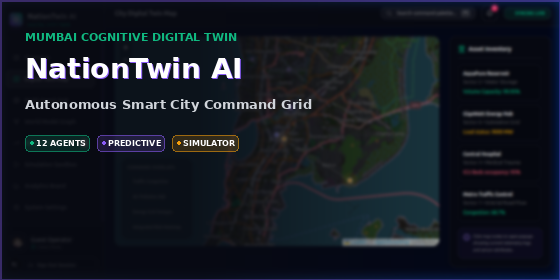
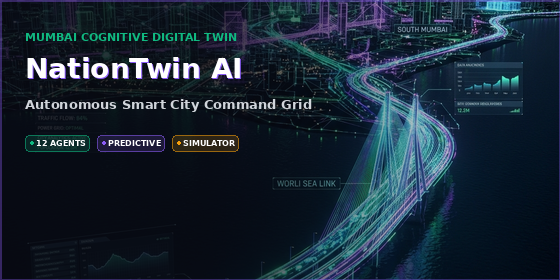
design: update marketing thumbnail to high-quality digital twin render

diff --git a/marketing/generate_assets.py b/marketing/generate_assets.py
@@ -310,11 +310,17 @@ def generate_thumbnail():
     """Creates a high-converting, professional YouTube-style thumbnail at exactly 560 x 280 px."""
     log("Generating high-converting 560x280 px thumbnail...")
     
-    # 1. Base Layer: Load the Map view and fit it
-    map_raw_path = find_screenshot("map_*.png")
-    raw_im = Image.open(map_raw_path)
+    # 1. Base Layer: Load the high-quality Mumbai digital twin background
+    bg_path = os.path.join(MARKETING_DIR, "mumbai_digital_twin_bg.png")
+    if os.path.exists(bg_path):
+        log(f"Loading high-quality background from: {bg_path}")
+        raw_im = Image.open(bg_path)
+    else:
+        log("mumbai_digital_twin_bg.png not found, falling back to map screenshot...")
+        map_raw_path = find_screenshot("map_*.png")
+        raw_im = Image.open(map_raw_path)
     
-    # Crop map to 560x280 centered
+    # Crop map/bg to 560x280 centered
     im_w, im_h = raw_im.size
     target_ratio = 560.0 / 280.0
     if im_w / im_h > target_ratio:
@@ -326,8 +332,12 @@ def generate_thumbnail():
         crop_y = (im_h - new_h) // 2
         map_cropped = raw_im.crop((0, crop_y, im_w, crop_y + new_h)).resize((560, 280), Image.Resampling.LANCZOS)
 
-    # 2. Add subtle blur to map background
-    map_bg = map_cropped.filter(ImageFilter.GaussianBlur(1.5))
+    # 2. Add subtle blur to background (only if we fell back to map screenshot, otherwise keep AI art crisp)
+    if os.path.exists(bg_path):
+        map_bg = map_cropped # Keep the AI generated image sharp and clear
+    else:
+        map_bg = map_cropped.filter(ImageFilter.GaussianBlur(1.5))
+        
     draw = ImageDraw.Draw(map_bg, "RGBA")
     
     # Dark vignette/gradient overlay from left (dense black) to right (translucent black)
@@ -399,7 +409,18 @@ def generate_thumbnail():
     # Save output
     thumb_path = os.path.join(OUTPUT_DIR, "thumbnail.png")
     map_bg.convert("RGB").save(thumb_path)
+    
+    # Also save to marketing/thumbnail.png in workspace
+    workspace_thumb_path = os.path.join(MARKETING_DIR, "thumbnail.png")
+    map_bg.convert("RGB").save(workspace_thumb_path)
+    
+    # Save to the current conversation's artifact folder
+    current_chat_artifact_path = "/home/abhishekraj10001/.gemini/antigravity-ide/brain/3f16175f-0b5b-4c47-9de4-df57cca65e9d/thumbnail.png"
+    map_bg.convert("RGB").save(current_chat_artifact_path)
+    
     log(f"Thumbnail rendered and saved to: {thumb_path}")
+    log(f"Thumbnail copied to workspace: {workspace_thumb_path}")
+    log(f"Thumbnail saved to artifacts: {current_chat_artifact_path}")
 
 # -------------------------------------------------------------
 # Video Builder & Stitcher